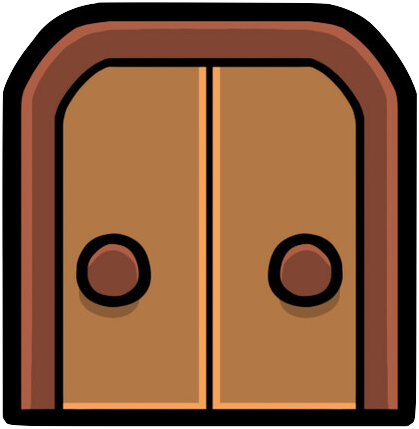
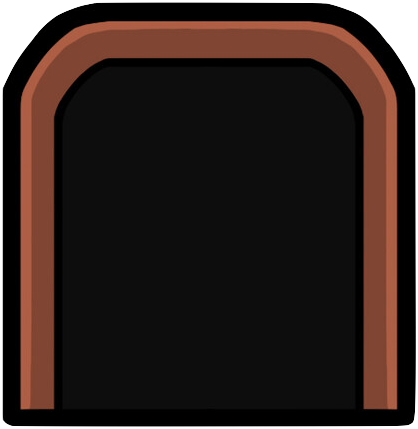
door done

diff --git a/src/LocalPlayGameScene.cpp b/src/LocalPlayGameScene.cpp
@@ -78,7 +78,23 @@ void LocalPlayGameScene::OnEnter() {
     }
 
     SpawnPlayers(playerCount);
-    ApplyInitialFormation();
+
+
+    // open door
+    m_Ctx.Door->SetImage(GA_RESOURCE_DIR "/Image/Background/door_open.png");
+
+    // add people count
+    m_EnteredCount = 0;
+    const glm::vec2 doorPos  = m_Ctx.Door->GetPosition();
+    const float     doorHalfH = m_Ctx.Door->GetScaledSize().y / 2.0f;
+
+    m_DoorCountText = std::make_shared<GameText>(
+        "0/" + std::to_string(playerCount),
+        40,
+        Util::Color::FromRGB(0, 0, 0, 255));
+    m_DoorCountText->SetZIndex(30.0f);
+    m_DoorCountText->SetPosition({doorPos.x+10.0f, doorPos.y + doorHalfH + 25.0f});
+    m_Ctx.Root.AddChild(m_DoorCountText);
 
     LOG_INFO("LocalPlayGameScene::OnEnter players={}", playerCount);
 }
@@ -92,6 +108,14 @@ void LocalPlayGameScene::OnExit() {
             m_Ctx.Root.RemoveChild(pb.agent.actor);
         }
     }
+
+    // close door and people count
+    m_Ctx.Door->SetImage(GA_RESOURCE_DIR "/Image/Background/door_close.png");
+    if (m_DoorCountText != nullptr) {
+        m_Ctx.Root.RemoveChild(m_DoorCountText);
+        m_DoorCountText = nullptr;
+    }
+
     m_Players.clear();
 
     for (auto& cat : m_Ctx.StartupCats) {
@@ -133,6 +157,39 @@ Scene* LocalPlayGameScene::Update() {
             st.supportIndex = -1;
         }
     }
+
+    // door detect
+    const glm::vec2 doorPos   = m_Ctx.Door->GetPosition();
+    const glm::vec2 doorSize  = m_Ctx.Door->GetScaledSize();
+    const float halfW = doorSize.x / 2.0f + 10.0f;  // 擴大 10.0f
+    const float halfH = doorSize.y / 2.0f + 10.0f;
+
+    for (auto& pb : m_Players) {
+        if (pb.entered)                  continue;
+        if (pb.agent.actor == nullptr)   continue;
+
+        const glm::vec2 pos = pb.agent.actor->GetPosition();
+        const bool inRange  = (std::abs(pos.x - doorPos.x) <= halfW &&
+                               std::abs(pos.y - doorPos.y) <= halfH);
+
+        const bool pressedUp = (pb.key.up != Util::Keycode::UNKNOWN) &&
+                                Util::Input::IsKeyDown(pb.key.up);
+
+        if (inRange && pressedUp) {
+            pb.entered = true;
+            ++m_EnteredCount;
+            pb.agent.actor->SetVisible(false);
+            pb.agent.actor->SetInputEnabled(false);
+            pb.agent.actor->SetPosition({640, -360});
+            UpdateDoorCountText();
+
+            if (m_EnteredCount >= m_Ctx.SelectedPlayerCount) {
+                // 全員進入 → 切換到 LevelSelectScene
+                return m_LevelSelectScene;   // 尚未實作時回傳 nullptr
+            }
+        }
+    }
+    // ====
 
     // ── 攤平成 vector<PhysicsAgent>（System 需要整體視野）────────────────
     std::vector<PhysicsAgent> agents;
@@ -190,6 +247,18 @@ void LocalPlayGameScene::SpawnPlayers(int count) {
                  pb.key.right == Util::Keycode::UNKNOWN) {
             pb.key = KeyboardConfigScene::k_Default2P;
         }
+
+        // 複製 StartupCats[i] 的位置
+        if (i < static_cast<int>(m_Ctx.StartupCats.size()) &&
+            m_Ctx.StartupCats[i] != nullptr) {
+            cat->SetPosition(m_Ctx.StartupCats[i]->GetPosition());
+            } else {
+                // Fallback：StartupCats 不夠用時放在地板上
+                const float floorY     = (m_Ctx.Floor != nullptr) ? m_Ctx.Floor->GetPosition().y : -340.0f;
+                const float floorHalfH = (m_Ctx.Floor != nullptr) ? m_Ctx.Floor->GetScaledSize().y / 2.0f : 0.0f;
+                const float charHalfH  = cat->GetScaledSize().y / 2.0f;
+                cat->SetPosition({0.0f, floorY + floorHalfH + charHalfH});
+            }
 
         m_Players.push_back(pb);
         m_Ctx.Root.AddChild(cat);
@@ -264,4 +333,11 @@ void LocalPlayGameScene::UpdateCooperativePower() {
     }
 
     m_Ctx.CooperativePushPower = bestGroup;
+}
+
+void LocalPlayGameScene::UpdateDoorCountText() {
+    if (m_DoorCountText == nullptr) return;
+    m_DoorCountText->SetText(
+        std::to_string(m_EnteredCount) + "/" +
+        std::to_string(m_Ctx.SelectedPlayerCount));
 }

diff --git a/src/OptionMenuScene.cpp b/src/OptionMenuScene.cpp
@@ -287,7 +287,7 @@ Scene* OptionMenuScene::Update() {
     {
         // 玩家取消：把音量還原成上次 OK 確認的值，預覽的調整全部作廢
         m_Ctx.BGMPlayer->SetVolume(m_Applied.bgmVolume * 6);
-        m_Ctx.WhiteBackground->SetImage(s_BgColorPaths[m_Applied.bgColorIndex]);
+        m_Ctx.Background->SetImage(s_BgColorPaths[m_Applied.bgColorIndex]);
         LOG_INFO("OptionMenuScene: cancelled => MenuScene");
         return m_MenuScene;
     }
@@ -300,7 +300,7 @@ Scene* OptionMenuScene::Update() {
     if (m_OkText->IsLeftClicked()) {
         m_Applied = m_Pending;
         m_Ctx.BGMPlayer->SetVolume(m_Applied.bgmVolume * 6);
-        m_Ctx.WhiteBackground->SetImage(s_BgColorPaths[m_Applied.bgColorIndex]);  // ← 新增
+        m_Ctx.Background->SetImage(s_BgColorPaths[m_Applied.bgColorIndex]);  // ← 新增
         LOG_INFO("OptionMenuScene: OK (mouse) => MenuScene");
         return m_MenuScene;
     }
@@ -372,12 +372,12 @@ Scene* OptionMenuScene::Update() {
         case 5:
             m_Applied = m_Pending;
             m_Ctx.BGMPlayer->SetVolume(m_Applied.bgmVolume * 6);
-            m_Ctx.WhiteBackground->SetImage(s_BgColorPaths[m_Applied.bgColorIndex]);  // ← 新增
+            m_Ctx.Background->SetImage(s_BgColorPaths[m_Applied.bgColorIndex]);  // ← 新增
             LOG_INFO("OptionMenuScene: OK (keyboard) => MenuScene");
             return m_MenuScene;
         case 6:
             m_Ctx.BGMPlayer->SetVolume(m_Applied.bgmVolume * 6);
-            m_Ctx.WhiteBackground->SetImage(s_BgColorPaths[m_Applied.bgColorIndex]);  // ← 新增
+            m_Ctx.Background->SetImage(s_BgColorPaths[m_Applied.bgColorIndex]);  // ← 新增
             LOG_INFO("OptionMenuScene: CANCEL (keyboard) => MenuScene");
             return m_MenuScene;
         default:
@@ -411,7 +411,7 @@ void OptionMenuScene::AdjustLeft(int row) {
                           + static_cast<int>(s_BgColorOptions.size()) - 1)
                          % static_cast<int>(s_BgColorOptions.size());
         m_BgColorLeftBtn->Press(75.0f);
-        m_Ctx.WhiteBackground->SetImage(s_BgColorPaths[m_Pending.bgColorIndex]);
+        m_Ctx.Background->SetImage(s_BgColorPaths[m_Pending.bgColorIndex]);
         break;
     case 2:  // BGM VOLUME（下限 0）
         if (m_Pending.bgmVolume > 0) {
@@ -456,7 +456,7 @@ void OptionMenuScene::AdjustRight(int row) {
         m_Pending.bgColorIndex = (m_Pending.bgColorIndex + 1)
                          % static_cast<int>(s_BgColorOptions.size());
         m_BgColorRightBtn->Press(75.0f);
-        m_Ctx.WhiteBackground->SetImage(s_BgColorPaths[m_Pending.bgColorIndex]);
+        m_Ctx.Background->SetImage(s_BgColorPaths[m_Pending.bgColorIndex]);
         break;
     case 2:  // BGM VOLUME（上限 20）
         if (m_Pending.bgmVolume < 20) {

diff --git a/src/LocalPlayScene.cpp b/src/LocalPlayScene.cpp
@@ -25,12 +25,14 @@ LocalPlayScene::LocalPlayScene(GameContext& ctx,
                                std::shared_ptr<Character>          exitGameButton,
                                std::shared_ptr<UI_Triangle_Button> leftTriButton,
                                std::shared_ptr<UI_Triangle_Button> rightTriButton,
+                               std::shared_ptr<Character>          blueCatRunImg,  // ← 新增
                                KeyboardConfigScene* kbConfigScene)
     : Scene(ctx)
     , m_MenuFrame(std::move(menuFrame))
     , m_ExitGameButton(std::move(exitGameButton))
     , m_LeftTriButton(std::move(leftTriButton))
     , m_RightTriButton(std::move(rightTriButton))
+    , m_BlueCatRunImg(std::move(blueCatRunImg))   // ← 新增
     , m_MenuScene(menuScene)
     , m_KbConfigScene(kbConfigScene)
 {
@@ -57,6 +59,7 @@ void LocalPlayScene::OnEnter() {
     m_Ctx.Root.AddChild(m_ExitGameButton);
     m_Ctx.Root.AddChild(m_LeftTriButton);
     m_Ctx.Root.AddChild(m_RightTriButton);
+    m_Ctx.Root.AddChild(m_BlueCatRunImg);
 
     // 本場景私有物件
     m_Ctx.Root.AddChild(m_PlayerCountText);
@@ -66,6 +69,11 @@ void LocalPlayScene::OnEnter() {
     m_MenuFrame->SetVisible(true);
     m_MenuFrame->SetScale({1.0f, 1.0f});
     m_MenuFrame->SetPosition({0.0f, -105.0f});
+
+    m_BlueCatRunImg->SetVisible(true);                            // ← 新增
+    m_BlueCatRunImg->SetZIndex(10);                               // ← 新增
+    m_BlueCatRunImg->SetScale({1.2f, 1.2f});                      // ← 新增
+    m_BlueCatRunImg->SetPosition({0.0f, -74.0f});                 // ← 新增
 
     m_ExitGameButton->SetVisible(true);
     m_ExitGameButton->SetPosition({331.0f, -14.0f});
@@ -98,6 +106,7 @@ void LocalPlayScene::OnExit() {
 
     m_Ctx.Root.RemoveChild(m_LeftTriButton);
     m_Ctx.Root.RemoveChild(m_RightTriButton);
+    m_Ctx.Root.RemoveChild(m_BlueCatRunImg);   // ← 新增
     m_Ctx.Root.RemoveChild(m_ExitGameButton);
     m_Ctx.Root.RemoveChild(m_MenuFrame);
 }

diff --git a/src/AppStart.cpp b/src/AppStart.cpp
@@ -63,11 +63,11 @@ void App::Start() {
     // ── Step 1：GameContext ───────────────────────────────────────────────────
     m_Ctx = std::make_unique<GameContext>(m_Root);
 
-    m_Ctx->WhiteBackground = std::make_shared<Character>(
+    m_Ctx->Background = std::make_shared<Character>(
         GA_RESOURCE_DIR "/Image/Background/white_background.png");
-    m_Ctx->WhiteBackground->SetZIndex(-10);
-    m_Ctx->WhiteBackground->SetScale({100.0f, 100.0f});
-    m_Root.AddChild(m_Ctx->WhiteBackground);
+    m_Ctx->Background->SetZIndex(-10);
+    m_Ctx->Background->SetScale({100.0f, 100.0f});
+    m_Root.AddChild(m_Ctx->Background);
 
     m_Ctx->Floor = std::make_shared<Character>(
         GA_RESOURCE_DIR "/Image/Background/background_floor.png");
@@ -80,6 +80,18 @@ void App::Start() {
     m_Ctx->Header->SetZIndex(0);
     m_Ctx->Header->SetPosition({0.0f, 135.0f});
     m_Root.AddChild(m_Ctx->Header);
+
+    m_Ctx->Door = std::make_shared<Character>(
+        GA_RESOURCE_DIR "/Image/Background/door_close.png");
+    m_Ctx->Door->SetScale({0.148f, 0.161f});   // ← 新增這一行
+    m_Ctx->Door->SetZIndex(5.0f);
+    {
+        const float floorY     = m_Ctx->Floor->GetPosition().y;
+        const float floorHalfH = m_Ctx->Floor->GetScaledSize().y / 2.0f;
+        const float doorHalfH  = m_Ctx->Door->GetScaledSize().y  / 2.0f;
+        m_Ctx->Door->SetPosition({0.0f, floorY + floorHalfH + doorHalfH});
+    }
+    m_Root.AddChild(m_Ctx->Door);
 
     m_Ctx->BGMPlayer = std::make_unique<BGMPlayer>();
     m_Ctx->BGMPlayer->Play();
@@ -174,6 +186,7 @@ void App::Start() {
         menuScene->GetExitGameButton(),
         menuScene->GetLeftTriButton(),
         menuScene->GetRightTriButton(),
+        menuScene->GetBlueCatRunImg(),   // ← 新增
         kbConfigScene.get());
 
     auto localPlayGameScene = std::make_unique<LocalPlayGameScene>(

diff --git a/include/LocalPlayGameScene.hpp b/include/LocalPlayGameScene.hpp
@@ -10,6 +10,8 @@
 
 class LocalPlayScene;
 
+
+
 class LocalPlayGameScene : public Scene {
 public:
     LocalPlayGameScene(GameContext& ctx,
@@ -26,17 +28,25 @@ private:
     struct PlayerBinding {
         PhysicsAgent    agent;
         PlayerKeyConfig key;
+        bool            entered = false;   // ← 新增：是否已進入門
     };
 
-    LocalPlayScene*      m_LocalPlayScene = nullptr;
-    KeyboardConfigScene* m_KbConfigScene  = nullptr;
+    std::shared_ptr<GameText> m_DoorCountText;
+    int                       m_EnteredCount = 0;
+    void                      UpdateDoorCountText();
 
-    CharacterPhysicsSystem   m_Physics;
+    // ── 下一個場景（LevelSelectScene，尚未實作時設為 nullptr）────────────
+    Scene*               m_LevelSelectScene = nullptr;
+    LocalPlayScene*      m_LocalPlayScene   = nullptr;
+    KeyboardConfigScene* m_KbConfigScene    = nullptr;
+
+    CharacterPhysicsSystem     m_Physics;
     std::vector<PlayerBinding> m_Players;
 
     void SpawnPlayers(int count);
     void ApplyInitialFormation();
     void UpdateCooperativePower();
+    void SetLevelSelectScene(Scene* s) { m_LevelSelectScene = s; }
 
     // 把 PlayerBinding 攤平成 PhysicsAgent 清單（供 System 使用）
     std::vector<PhysicsAgent*> AgentPtrs();

diff --git a/include/LocalPlayScene.hpp b/include/LocalPlayScene.hpp
@@ -39,6 +39,7 @@ public:
                    std::shared_ptr<Character>          exitGameButton,
                    std::shared_ptr<UI_Triangle_Button> leftTriButton,
                    std::shared_ptr<UI_Triangle_Button> rightTriButton,
+                   std::shared_ptr<Character>          blueCatRunImg,  // ← 新增
                    KeyboardConfigScene* kbConfigScene);
     ~LocalPlayScene() override = default;
 
@@ -61,6 +62,7 @@ private:
     std::shared_ptr<Character>          m_ExitGameButton;
     std::shared_ptr<UI_Triangle_Button> m_LeftTriButton;
     std::shared_ptr<UI_Triangle_Button> m_RightTriButton;
+    std::shared_ptr<Character>          m_BlueCatRunImg;   // ← 新增
 
     // ── 本場景私有 UI ────────────────────────────────────────────────────────
     std::shared_ptr<GameText> m_PlayerCountText;  // "nPLAYER GAME"

diff --git a/include/GameContext.hpp b/include/GameContext.hpp
@@ -12,17 +12,17 @@ struct GameContext {
     Util::Renderer& Root;
 
     // 永久留在渲染樹的物件（所有場景都看得到）
-    std::shared_ptr<Character>  WhiteBackground;
+    std::shared_ptr<Character>  Background;
     std::shared_ptr<Character>  Floor;
     std::shared_ptr<BGMPlayer>  BGMPlayer;
 
-    // [新增] Header 在 TitleScene 和 MenuScene 都要顯示，
+    // 在多個 Scene 都要顯示
     // 所以移到 GameContext，由 AppStart 加入渲染樹後就不再移除。
-    std::shared_ptr<Character>  Header;
+    std::shared_ptr<Character> Header;
+    std::shared_ptr<Character> Door;
 
     std::vector<std::shared_ptr<PlayerCat>> StartupCats;
-
-    // Local-play shared runtime data for upcoming level logic.
+    
     int SelectedPlayerCount = 2;
     int CooperativePushPower = 1;
 

diff --git a/include/Menuscene.hpp b/include/Menuscene.hpp
@@ -36,6 +36,7 @@ public:
     std::shared_ptr<Character> GetExitGameButton() const { return m_ExitGameButton; }
     std::shared_ptr<UI_Triangle_Button> GetLeftTriButton()  const { return m_LeftTriButton;  }  // ← 新增
     std::shared_ptr<UI_Triangle_Button> GetRightTriButton() const { return m_RightTriButton; }  // ← 新增
+    std::shared_ptr<Character> GetBlueCatRunImg()  const { return m_blue_cat_run_img; }
 
 private:
     std::shared_ptr<Character>          m_MenuFrame;
